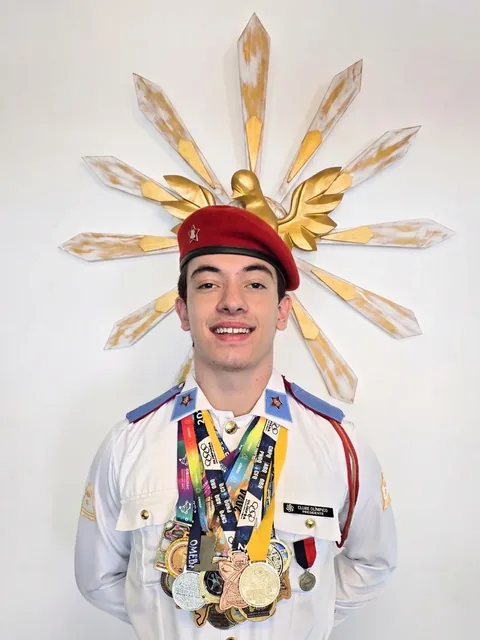
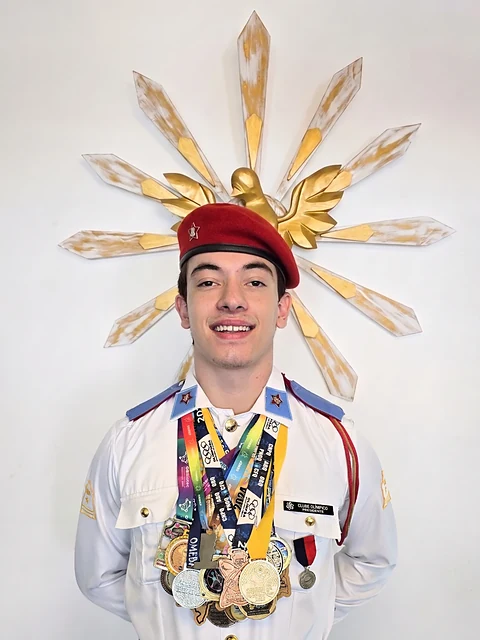
Medalhas em alta, SAT com link, galeria, globo e estrada mais solta
- Foto das medalhas re-exportada da original em qualidade alta (moldura
  480/960 e a foto grande do visualizador).
- SAT na faixa de números: "of 1600, top <1% in the world" e o rótulo
  abre o score report.
- Legendas da galeria: Dia do Índio at school, Talk about Fundação
  Estudar, HIBEEX team with investors, After the Fundação Estudar talk;
  enquadramento melhor na foto do Candela na Estudar.
- Globo: textos das quatro cidades reescritos, mais simples; botões de
  cidade viram links de texto com seta, sem pílula nem rótulo.
- St Andrews sai do site inteiro (globo, terminal, llms.txt, dados
  estruturados). SAT atualizado para 1570 nesses lugares.
- Descrição: "@ HIBEEX" em maiúsculas.
- Experience: cards um pouco mais estreitos para a estrada ondular o
  dobro de um lado para o outro.

Claude-Session: https://claude.ai/code/session_01HKydPjNeT9ZWoKkHj3g4WT

diff --git a/index.html b/index.html
@@ -70,7 +70,7 @@
     <noscript><style>#preloader { display: none; }</style></noscript>
     <meta
       name="description"
-      content="Building Backoffice AI for Small and Medium Businesses @ Hibeex. Founder @ Projeto Candela."
+      content="Building Backoffice AI for Small and Medium Businesses @ HIBEEX. Founder @ Projeto Candela."
     />
     <link rel="canonical" href="https://gabrielmr.com" />
     <meta name="author" content="Gabriel Moreno Ribeiro" />
@@ -80,7 +80,7 @@
     <meta name="twitter:title" content="Gabriel Moreno Ribeiro" />
     <meta
       name="twitter:description"
-      content="Building Backoffice AI for Small and Medium Businesses @ Hibeex. Founder @ Projeto Candela."
+      content="Building Backoffice AI for Small and Medium Businesses @ HIBEEX. Founder @ Projeto Candela."
     />
     <meta name="twitter:image" content="https://gabrielmr.com/og-image.png" />
     <meta name="twitter:image:alt" content="Gabriel Moreno Ribeiro" />
@@ -90,7 +90,7 @@
     <meta property="og:title" content="Gabriel Moreno Ribeiro" />
     <meta
       property="og:description"
-      content="Building Backoffice AI for Small and Medium Businesses @ Hibeex. Founder @ Projeto Candela."
+      content="Building Backoffice AI for Small and Medium Businesses @ HIBEEX. Founder @ Projeto Candela."
     />
     <meta property="og:image" content="https://gabrielmr.com/og-image.png" />
     <meta property="og:image:width" content="1200" />
@@ -101,7 +101,7 @@
     <meta itemprop="name" content="Gabriel Moreno Ribeiro" />
     <meta
       itemprop="description"
-      content="Building Backoffice AI for Small and Medium Businesses @ Hibeex. Founder @ Projeto Candela."
+      content="Building Backoffice AI for Small and Medium Businesses @ HIBEEX. Founder @ Projeto Candela."
     />
 
     <script type="application/ld+json">
@@ -114,7 +114,7 @@
           "name": "Gabriel Moreno Ribeiro",
           "alternateName": ["Gabriel Moreno", "Gabriel MR"],
           "jobTitle": "Builder and researcher",
-          "description": "18-year-old builder and researcher on a build year. Building HIBEEX, backoffice AI for small and medium businesses and one of 6 startups in the Canastra Ventures AI Residency. 39 olympiad medals (19 gold). Founder of Projeto Candela. Admitted to the University of St Andrews with a Global Merit Scholarship and 1st place at Insper for Computer Engineering.",
+          "description": "18-year-old builder and researcher on a build year. Building HIBEEX, backoffice AI for small and medium businesses and one of 6 startups in the Canastra Ventures AI Residency. 39 olympiad medals (19 gold). Founder of Projeto Candela. 1st place admission at Insper for Computer Engineering.",
           "url": "https://gabrielmr.com",
           "email": "me@gabrielmr.com",
           "nationality": "Brazilian",
@@ -125,10 +125,9 @@
             }
           ],
           "award": [
-            "University of St Andrews Global Merit Scholarship (admitted; on a build year)",
             "Insper, 1st place admission, Computer Engineering",
             "39 olympiad medals (19 gold) across 49 competitions",
-            "SAT 1510/1600 (top 1% Brazil)",
+            "SAT 1570/1600 (99th+ percentile)",
             "Fundação Estudar PREP scholar (0.7% acceptance)"
           ],
           "knowsAbout": [
@@ -165,7 +164,7 @@
               "name": "Who is Gabriel Moreno Ribeiro?",
               "acceptedAnswer": {
                 "@type": "Answer",
-                "text": "Gabriel Moreno Ribeiro is an 18-year-old builder and researcher from Brazil, currently on a build year. He is building HIBEEX, building Backoffice AI for SMBs, and one of 6 startups in the Canastra Ventures AI Residency. He has won 39 olympiad medals (19 gold) across math, physics, chemistry, and more. He was admitted to the University of St Andrews with a Global Merit Scholarship and approved in 1st place at Insper for Computer Engineering."
+                "text": "Gabriel Moreno Ribeiro is an 18-year-old builder and researcher from Brazil, currently on a build year. He is building HIBEEX, building Backoffice AI for SMBs, and one of 6 startups in the Canastra Ventures AI Residency. He has won 39 olympiad medals (19 gold) across math, physics, chemistry, and more. He was approved in 1st place at Insper for Computer Engineering."
               }
             },
             {
@@ -189,7 +188,7 @@
               "name": "What are Gabriel's academic achievements?",
               "acceptedAnswer": {
                 "@type": "Answer",
-                "text": "Gabriel has won 39 medals across 49 academic olympiads (19 gold, 2 international). Highlights include: 1st of 10,000+ at IFT-UNESP, SAT 1510/1600 (top 1% in Brazil), Gold at ONNEQ (top 0.675%), 1st at OBAQ (top 0.014%), selection for Fundação Estudar PREP (0.7% acceptance), admission to St Andrews with a Global Merit Scholarship, and 1st place admission at Insper for Computer Engineering. He also ran an RCT with 208 students on fintech and savings behavior (+130% savings in the treatment group)."
+                "text": "Gabriel has won 39 medals across 49 academic olympiads (19 gold, 2 international). Highlights include: 1st of 10,000+ at IFT-UNESP, SAT 1570/1600 (99th+ percentile), Gold at ONNEQ (top 0.675%), 1st at OBAQ (top 0.014%), selection for Fundação Estudar PREP (0.7% acceptance), and 1st place admission at Insper for Computer Engineering. He also ran an RCT with 208 students on fintech and savings behavior (+130% savings in the treatment group)."
               }
             }
           ]

diff --git a/src/components/Home/BackgroundGlobe.tsx b/src/components/Home/BackgroundGlobe.tsx
@@ -28,9 +28,8 @@ const CITIES: City[] = [
     role: 'Roots',
     headline: 'My grandfather\'s garage.',
     story: [
-      'The Cariri valley, in the countryside of Ceará. Waterfalls cut through the rock, Padre Cícero\'s statue watches from the hill, and everyone knows your name before you say it.',
-      'My grandparents built their lives here and my father grew up on these streets. I came back every summer, months of 40°C heat, most of them spent handing my grandfather tools in his garage.',
-      'It\'s not on any startup map. It\'s where I learned to open things that won\'t start.',
+      'My father\'s family is from here, a small town in the Cariri valley, in the interior of Ceará. I spent most of my summers here as a kid.',
+      'My grandfather has a garage in town. I started helping him fix cars when I was 6, mostly by handing him tools.',
     ],
   },
   {
@@ -40,11 +39,10 @@ const CITIES: City[] = [
     lon: -38.4767,
     coords: '12.9747° S, 38.4767° W',
     role: 'Foundation',
-    headline: 'Home for seventeen years.',
+    headline: 'Where I grew up.',
     story: [
-      'The first capital of Brazil. Pelourinho\'s cobblestones, the Elevador Lacerda over the bay, the gold ceilings of São Francisco, sunset at Farol da Barra.',
-      'I got into Colégio Militar at 10, one of 30 out of 2,500 applicants, with a perfect math score. The olympiad run started here: 39 medals in math, physics, chemistry and astronomy.',
-      'Projeto Candela was built for the public schools of this city. I still call it home.',
+      'I lived in Salvador until I was 17. At 10 I got into Colégio Militar, one of 30 picked from 2,500 applicants, with a perfect score in math. That is where I started doing science olympiads.',
+      'I also repaired laptops here to pay for school, and started Projeto Candela in the city\'s public schools.',
     ],
   },
   {
@@ -54,10 +52,10 @@ const CITIES: City[] = [
     lon: -38.5433,
     coords: '3.7172° S, 38.5433° W',
     role: 'Acceleration',
-    headline: 'Last year of school, far from home.',
+    headline: 'Last year of school.',
     story: [
-      'I moved here for my final year of high school at Colégio Ari de Sá Cavalcante, on the ITA/IME track, sharing an apartment with 11 other students. Graduated with a 9.41 average.',
-      'That year: SAT 1510, Fundação Estudar PREP (70 picked from 10,000+ applicants), and admission to St Andrews with a Global Merit Scholarship.',
+      'I moved here for my last year of high school, at Colégio Ari de Sá, on the ITA/IME track. I shared an apartment with 11 other students and graduated with a 9.41 average.',
+      'That year I was also picked for Fundação Estudar\'s PREP program, about 70 people out of 10,000+ applicants.',
     ],
   },
   {
@@ -69,9 +67,8 @@ const CITIES: City[] = [
     role: 'Building',
     headline: 'Building HIBEEX.',
     story: [
-      'I moved here with Teodoro to build HIBEEX. Deferred university and went all in.',
-      'One of 6 startups in the Canastra Ventures AI Residency. We build backoffice AI for small and medium businesses.',
-      'I chose this over freshman year at St Andrews. So far, no regrets.',
+      'I moved here in 2026 to build HIBEEX with Teodoro, my co-founder. We make back-office AI for small and medium businesses.',
+      'HIBEEX was one of 6 startups in the Canastra Ventures AI Residency.',
     ],
   },
 ];
@@ -385,9 +382,8 @@ function CityPanel({
   );
 }
 
-// Walk the journey: the cities on either side, by name, and the dots for where
-// you are. It sits under the card at a fixed height, so the buttons stay put
-// while the card above changes size with each city's story.
+// Walk the journey: the cities on either side, by name, as plain links.
+// The timeline under the globe already shows where you are.
 function CitySteps({ city, onStep }: { city: City; onStep: (dir: -1 | 1) => void }) {
   const index = CITIES.findIndex((c) => c.id === city.id);
   const prev = CITIES[(index - 1 + CITIES.length) % CITIES.length];
@@ -397,14 +393,11 @@ function CitySteps({ city, onStep }: { city: City; onStep: (dir: -1 | 1) => void
     <nav className="city-steps" aria-label="Cities">
       <button type="button" className="city-steps__step" onClick={() => onStep(-1)}>
         <FiArrowLeft aria-hidden="true" />
-        <span><small>Previous</small>{prev.name.split(',')[0]}</span>
+        <span className="sr-only">Previous city: </span>{prev.name.split(',')[0]}
       </button>
-      <span className="city-steps__dots" aria-hidden="true">
-        {CITIES.map((c) => <i key={c.id} className={c.id === city.id ? 'is-on' : undefined} />)}
-      </span>
       <span className="sr-only" aria-live="polite">{city.name}, {index + 1} of {CITIES.length}</span>
       <button type="button" className="city-steps__step city-steps__step--next" onClick={() => onStep(1)}>
-        <span><small>Next</small>{next.name.split(',')[0]}</span>
+        <span className="sr-only">Next city: </span>{next.name.split(',')[0]}
         <FiArrowRight aria-hidden="true" />
       </button>
     </nav>

diff --git a/src/styles/components/home/backgroundGlobe.scss b/src/styles/components/home/backgroundGlobe.scss
@@ -189,72 +189,38 @@
   }
 }
 
-// ── City stepper: previous and next city by name, and the dots for where you are ──
-// Under the card, at a fixed height, so the buttons stay put between cities.
+// ── City stepper: previous and next city by name, as text links ──
+// Under the card, at a fixed height, so the links stay put between cities.
 .city-steps {
-  display: grid;
-  grid-template-columns: 1fr auto 1fr;
+  display: flex;
+  justify-content: space-between;
   align-items: center;
-  gap: 12px;
+  gap: 16px;
   padding: 0 4px;
 
   &__step {
     display: inline-flex;
     align-items: center;
-    gap: 10px;
-    justify-self: start;
+    gap: 8px;
     min-height: 44px;
-    padding: 6px 16px 6px 10px;
-    border: 1.5px solid var(--border);
-    border-radius: 36px;
-    background: var(--surface);
-    color: var(--fg);
+    padding: 0;
+    border: 0;
+    background: none;
+    color: var(--fg-muted);
     font: inherit;
-    font-size: 14px;
+    font-size: 15px;
     font-weight: 600;
-    text-align: left;
     cursor: pointer;
-    transition: border-color 0.16s ease-out, transform 0.16s ease-out;
+    transition: color 0.2s;
 
-    svg { flex: none; width: 18px; height: 18px; color: var(--accent); transition: transform 0.2s ease-out; }
+    svg { flex: none; width: 17px; height: 17px; transition: transform 0.25s cubic-bezier(0.22, 1, 0.36, 1); }
 
-    span { display: flex; flex-direction: column; line-height: 1.15; }
+    &:hover,
+    &:focus-visible { color: var(--fg); }
+    &:hover svg { transform: translateX(-4px); }
+    &:focus-visible { outline: 2px solid var(--focus-ring); outline-offset: 4px; border-radius: 4px; }
 
-    small {
-      font-size: 11px;
-      font-weight: 600;
-      letter-spacing: 0.1em;
-      text-transform: uppercase;
-      color: var(--fg-muted);
-    }
-
-    &:hover { border-color: var(--accent-decor); }
-    &:hover svg { transform: translateX(-3px); }
-    &:active { transform: scale(0.97); }
-    &:focus-visible { outline: 2px solid var(--focus-ring); outline-offset: 2px; }
-
-    &--next {
-      justify-self: end;
-      padding: 6px 10px 6px 16px;
-      text-align: right;
-
-      &:hover svg { transform: translateX(3px); }
-    }
-  }
-
-  &__dots {
-    display: flex;
-    gap: 7px;
-
-    i {
-      width: 7px;
-      height: 7px;
-      border-radius: 50%;
-      background: var(--border);
-      transition: transform 0.2s ease-out, background-color 0.2s;
-    }
-
-    i.is-on { background: var(--accent-decor); transform: scale(1.35); }
+    &--next:hover svg { transform: translateX(4px); }
   }
 }
 
@@ -601,16 +567,6 @@ $stage-mono: ui-monospace, 'SF Mono', 'Fira Code', Menlo, Consolas, monospace;
 // Phones have no globe (skipGlobe): the timeline drives the panel, so "close" would only leave a hole
 @media (max-width: 600px) {
   .city-panel__close { display: none; }
-
-  // Tighter pills so "Previous São Paulo" and "Next Salvador" fit on one row with the dots.
-  .city-steps {
-    gap: 8px;
-    padding: 0;
-
-    &__step { gap: 8px; padding: 5px 12px 5px 8px; font-size: 13px; white-space: nowrap; }
-    &__step--next { padding: 5px 8px 5px 12px; }
-    &__step small { font-size: 10px; }
-  }
 }
 
 // Guided-tour cue on the active city dot (restarts per city)

diff --git a/src/constants/work.ts b/src/constants/work.ts
@@ -142,31 +142,13 @@ export const work = [
       },
       modalData: {
         title: "Academic Olympiad Achievements",
-        desc: "39 medals in 49 competitions: 19 gold, 5 international. Math, physics, chemistry, biology and astronomy. 1st of 10,000+ at IFT-UNESP. SAT 1570/1600, top 1% in Brazil. Gold at ONNEQ, silver at OBMEP, bronze at OBQ.",
+        desc: "39 medals in 49 competitions: 19 gold, 5 international. Math, physics, chemistry, biology and astronomy. 1st of 10,000+ at IFT-UNESP. SAT 1570/1600, 99th+ percentile. Gold at ONNEQ, silver at OBMEP, bronze at OBQ.",
         infoHeading: "Highlights",
         infoArr: [
           "19 Gold Medals",
           "SAT 1570/1600",
           "1st OBAQ (0.014%)",
           "ONNEQ Gold (0.675%)",
-        ],
-      },
-    },
-    {
-      cardData: {
-        title: "St Andrews Global Merit Scholar",
-        url: null,
-        imgUrl: null,
-      },
-      modalData: {
-        title: "University of St Andrews - Global Merit Scholarship",
-        desc: "Admitted for Computer Science and Economics with a Global Merit Scholarship. Taking a build year to go deeper on HIBEEX first.",
-        infoHeading: "Details",
-        infoArr: [
-          "CS & Economics",
-          "Merit Scholarship",
-          "Scotland, UK",
-          "On a build year",
         ],
       },
     },

diff --git a/src/constants/terminal/portfolioData.ts b/src/constants/terminal/portfolioData.ts
@@ -2,14 +2,14 @@ export const bio = {
   name: "Gabriel Moreno Ribeiro",
   title: "Full Stack Builder | Researcher",
   summary:
-    "18, builder and researcher, on a build year. Building HIBEEX, backoffice AI for small and medium businesses and one of 6 startups in the Canastra Ventures AI Residency. 39 olympiad medals, 19 gold. Founder of Projeto Candela: 3,392 students in 28 schools. Admitted to St Andrews with a Global Merit Scholarship and 1st place at Insper for Computer Engineering.",
+    "18, builder and researcher, on a build year. Building HIBEEX, backoffice AI for small and medium businesses and one of 6 startups in the Canastra Ventures AI Residency. 39 olympiad medals, 19 gold. Founder of Projeto Candela: 3,392 students in 28 schools. 1st place at Insper for Computer Engineering.",
   interests: ["AI/ML", "FinTech", "Physics Research", "Entrepreneurship", "Product Design"],
 };
 
 export const education = {
   degree: "Build year (2026), going deep on HIBEEX before university",
   university:
-    "Admitted: University of St Andrews, CS & Economics (Global Merit Scholarship) | Insper, Computer Engineering (1st place)",
+    "Insper, Computer Engineering (1st place)",
   year: "2026 - Present",
 };
 

diff --git a/src/components/Home/FindMyWork.tsx b/src/components/Home/FindMyWork.tsx
@@ -185,7 +185,7 @@ const STATS = [
   },
   {
     logo: <img className="sat-logo" src="/stats/sat-logo.webp" alt="" width={200} height={127} loading="lazy" decoding="async" />,
-    value: 1570, grouping: false, label: "SAT score", note: "of 1600, top 1% in Brazil",
+    value: 1570, grouping: false, label: "SAT score", note: "of 1600, top <1% in the world", href: "/files/sat-score-report.pdf",
   },
   {
     logo: (
@@ -217,7 +217,14 @@ function NumbersStrip() {
               print(s)
             )}
           </span>
-          <span className="numbers-strip__label">{s.label}</span>
+          {"href" in s ? (
+            <a className="numbers-strip__label numbers-strip__link" href={s.href} target="_blank" rel="noopener noreferrer">
+              {s.label} <FiArrowUpRight aria-hidden="true" />
+              <span className="sr-only"> (score report, opens in a new tab)</span>
+            </a>
+          ) : (
+            <span className="numbers-strip__label">{s.label}</span>
+          )}
           <span className="numbers-strip__note">{s.note}</span>
         </li>
       ))}

diff --git a/src/styles/components/home/findMyWork.scss b/src/styles/components/home/findMyWork.scss
@@ -203,6 +203,26 @@
       color: var(--fg);
     }
 
+    // The SAT label opens the score report.
+    &__link {
+      display: inline-flex;
+      align-items: center;
+      gap: 3px;
+      width: fit-content;
+      text-decoration: none;
+      background-image: linear-gradient(currentColor, currentColor);
+      background-size: 0% 1.5px;
+      background-position: 0 100%;
+      background-repeat: no-repeat;
+      transition: background-size 0.25s ease, color 0.2s;
+
+      svg { width: 14px; height: 14px; color: var(--accent); transition: transform 0.2s; }
+
+      &:hover,
+      &:focus-visible { background-size: 100% 1.5px; color: var(--accent); }
+      &:hover svg { transform: translate(2px, -2px); }
+    }
+
     &__note {
       font-size: 13px;
       line-height: 1.35;

diff --git a/src/components/Home/Experience/experience.scss b/src/components/Home/Experience/experience.scss
@@ -24,8 +24,9 @@ $exp-mono: ui-monospace, "SF Mono", Menlo, Consolas, monospace;
   --exp-odo-top: 180px;
   // Cards alternam de lado e a estrada serpenteia entre eles. 56px = vão de 32px até a borda
   // da estrada + meia-largura dela (46/2 + 1): casa com CARD_GAP.wide e roadHalf() em
-  // geometry.ts. O resto (12% da coluna) é quanto a estrada ondula de um lado para o outro.
-  --exp-card-w: min(400px, calc((100% - clamp(96px, 12%, 150px)) / 2 - 56px));
+  // geometry.ts. O resto (24% da coluna) é quanto a estrada ondula de um lado para o outro:
+  // com 12% ela mal saía do meio.
+  --exp-card-w: min(380px, calc((100% - clamp(150px, 24%, 240px)) / 2 - 56px));
 }
 
 // ── Cabeçalho: só o título (estilo em .section-title, globals.scss) ─────────

diff --git a/src/hooks/useDocumentHead.ts b/src/hooks/useDocumentHead.ts
@@ -34,7 +34,7 @@ export function useDocumentHead({ title, description, canonical, noindex }: Docu
       if (meta) {
         meta.setAttribute(
           'content',
-          'Building Backoffice AI for Small and Medium Businesses @ Hibeex. Founder @ Projeto Candela.'
+          'Building Backoffice AI for Small and Medium Businesses @ HIBEEX. Founder @ Projeto Candela.'
         );
       }
       const link = document.querySelector('link[rel="canonical"]');
